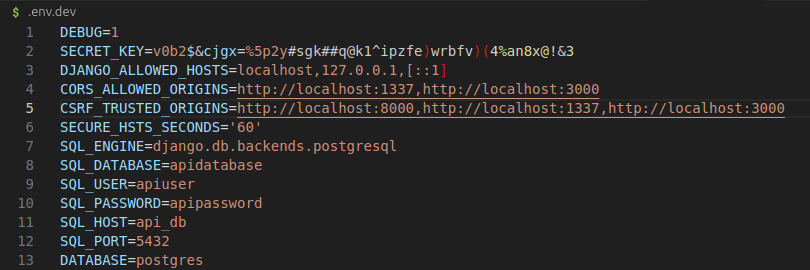
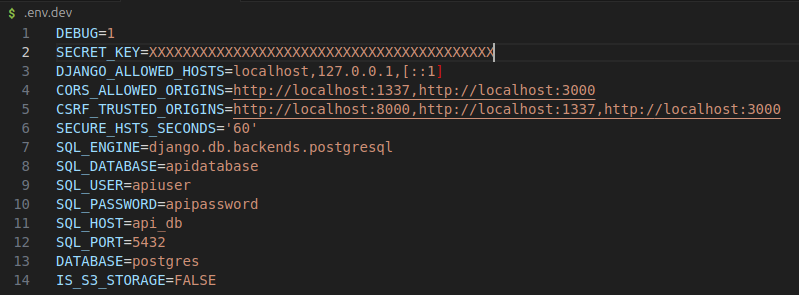
integrated application with AWS database, and AWS S3 in production build

Changed region(s): [[0.0, 0.0889, 0.9912, 1.0], [0.0, 0.0296, 0.0901, 0.0593]]

diff --git a/frontend/src/components/ui/NavigationBar.js b/frontend/src/components/ui/NavigationBar.js
@@ -52,7 +52,7 @@ export const NavigationBar = () => {
                             <Nav.Link href="/user/quests">Quests</Nav.Link>
                             : null}
                         {isAuth ?
-                            <Nav.Link href="/user/marketplace">Marketplace</Nav.Link>
+                            <Nav.Link href="/marketplace">Marketplace</Nav.Link>
                             : null}
                         {isAuth ?
                             <Nav.Link href="/logout">Logout</Nav.Link> :

diff --git a/frontend/src/components/web/HomePage.js b/frontend/src/components/web/HomePage.js
@@ -74,8 +74,11 @@ export const HomePage = () => {
             }
         }
     }, [users]);
-    
 
+    if (users.length == 0) { // return this while loading
+        return <div>Loading...</div>;
+    }
+    
     return (
         <Container className="justify-content-md-center">
             <div className="form-signin text-center">

diff --git a/api/gamification_tool/settings.py b/api/gamification_tool/settings.py
@@ -64,6 +64,7 @@ INSTALLED_APPS = [
     'quiz',
     'memory_game',
     'marketplace',
+    'dbbackup',
 ]
 # Plugins of processes that run in requests/responses
 MIDDLEWARE = [
@@ -153,19 +154,6 @@ USE_I18N = True
 USE_TZ = True
 
 
-# Static files (CSS, JavaScript, Images)
-# https://docs.djangoproject.com/en/5.1/howto/static-files/
-
-STATIC_URL = '/static/'
-STATIC_ROOT = BASE_DIR / "staticfiles"
-
-STATICFILES_DIRS = [
-    BASE_DIR,
-]
-
-MEDIA_URL = "/media/"
-MEDIA_ROOT = BASE_DIR / "mediafiles"
-
 # Default primary key field type
 # https://docs.djangoproject.com/en/5.1/ref/settings/#default-auto-field
 
@@ -184,3 +172,54 @@ REST_FRAMEWORK = {
 
 # Custom API Key header: Gamification-Api-Key: <key>
 API_KEY_CUSTOM_HEADER = "HTTP_GAMIFICATION_API_KEY"
+
+# Dbbackup config
+DBBACKUP_STORAGE = 'storages.backends.s3boto3.S3Boto3Storage'
+DBBACKUP_STORAGE_OPTIONS = {
+    'access_key': os.environ.get("S3_ACCESS_KEY"),
+    'secret_key': os.environ.get("S3_SECRET_KEY"),
+    'bucket_name': os.environ.get("S3_BUCKET_NAME"),
+    'region_name': os.environ.get("AWS_REGION"),
+    'default_acl': 'private',
+}
+
+
+# Static files (CSS, JavaScript, Images)
+# https://docs.djangoproject.com/en/5.1/howto/static-files/
+
+# For Prodcution: Static in AWS S3 if true, else static served in STATIC_ROOT
+USING_S3 = os.environ.get("IS_S3_STORAGE")
+
+if USING_S3:
+    AWS_ACCESS_KEY_ID = os.environ.get("S3_ACCESS_KEY")
+    AWS_SECRET_ACCESS_KEY = os.environ.get("S3_SECRET_KEY")
+    AWS_S3_REGION_NAME = os.environ.get("AWS_REGION")
+    AWS_STORAGE_BUCKET_NAME = os.environ.get("S3_BUCKET_NAME")
+    AWS_S3_FILE_OVERWRITE = False
+    AWS_DEFAULT_ACL = None
+    AWS_QUERYSTRING_AUTH = False
+    AWS_S3_CUSTOM_DOMAIN = f"{AWS_STORAGE_BUCKET_NAME}.s3.amazonaws.com"
+
+    STATICFILES_LOCATION = "static"
+    STATIC_URL = f"https://{AWS_S3_CUSTOM_DOMAIN}/{STATICFILES_LOCATION}/"
+
+    MEDIAFILES_LOCATION = "media"
+    MEDIA_URL = f"https://{AWS_S3_CUSTOM_DOMAIN}/{MEDIAFILES_LOCATION}/"
+
+    STORAGES = {
+        "default": {"BACKEND": "gamification_tool.custom_storage.MediaStorage"},
+        "staticfiles": {"BACKEND": "gamification_tool.custom_storage.StaticStorage"},
+    }
+    AWS_S3_OBJECT_PARAMETERS = {
+        "CacheControl": "max-age=2592000",
+    }
+else:
+    STATIC_URL = '/static/'
+    STATIC_ROOT = BASE_DIR / "staticfiles"
+
+    MEDIA_URL = "/media/"
+    MEDIA_ROOT = BASE_DIR / "mediafiles"
+
+STATICFILES_DIRS = [
+    os.path.join(BASE_DIR, 'static')
+]

diff --git a/api/gamification_tool/custom_storage.py b/api/gamification_tool/custom_storage.py
@@ -1,0 +1,13 @@
+from django.conf import settings
+from storages.backends.s3boto3 import S3Boto3Storage
+
+
+class StaticStorage(S3Boto3Storage):
+    location = settings.STATICFILES_LOCATION
+    default_acl = 'public-read'
+    querystring_auth = False
+
+
+class MediaStorage(S3Boto3Storage):
+    location = settings.MEDIAFILES_LOCATION
+    file_overwrite = False

diff --git a/README.md b/README.md
@@ -55,6 +55,10 @@ Views simulating minimal versions of main application features may be necessary 
   - [Production setup](#production-setup)
     - [Dev and Prod settings and environment variables](#dev-and-prod-settings-and-environment-variables)
     - [Nginx for reverse proxy and serving static content](#nginx-for-reverse-proxy-and-serving-static-content)
+    - [Hosting Providers](#hosting-providers)
+      - [Digital Ocean droplet hosting](#digital-ocean-droplet-hosting)
+      - [AWS RDS PostrgreSQL database](#aws-rds-postrgresql-database)
+      - [S3 Static and Media hosting](#s3-static-and-media-hosting)
     - [Running the production build](#running-the-production-build)
     - [What's different in production](#whats-different-in-production)
     - [To do remaining for production](#to-do-remaining-for-production)
@@ -127,7 +131,7 @@ The .env files excluded from git in the project structure:
 #### API .env files
 __Important: If updating from an earlier state of the project repo, the .env files are managed slightly differently in that where there was just a single .env for the backend, there are now two. One for dev and one for prod environments__  
 
-We need to make our own .env files.  
+As mentioned in the previous sections, we need to make our own .env files as they aren't shared in version control for dev builds.
 
 The pip package python-dotenv should already be installed from the `requirements.txt` earlier. If not, install it.
 
@@ -136,6 +140,8 @@ Here's an example for the Django environment variables in the backend.
 
 The Django Secret key is added to .env instead of having it exposed in the project settings.  
 Check the commented SECRET_KEY variable in settings.py to get the values, or generate another for your own dev machine.  
+
+`IS_S3_STORAGE` is a check for whether static and media will be collected in an AWS Bucket, or in the regular `STATIC_ROOT`. It should be false for dev builds, and can be false in the prod build in the case we don't want to use S3.
 
 The dev database user credentials environment variables can be found in `docker-compose.yml` in the project root so just copy them over to your `.env.dev`.  
 ![alt text](readme-imgs/env-2.png)
@@ -283,7 +289,7 @@ We now have two docker-compose.yml files:
 The dev setup of the environment variables was detailed in the earlier section *API.env files*, but we will include it here also.  
 
 Settings in the Django project which require differences between environments are stored in .env files in the project root and are imported into the docker-compose.yml's and Django. The files are:  
-- .env.dev - for develop environment  
+- .env.dev - for develop environment (the same one)  
 ![alt text](readme-imgs/env-dev-1.png)  
 
 - .env.prod  
@@ -315,6 +321,20 @@ At this point, Nginx is providing a reverse proxy service to the API, where requ
 
 The static from the Django project are served in the locations specified by the config file which corresponds to volumes created in `docker-compose.prod.yml`.
 
+### Hosting Providers
+We won't provide any detailed information about the providers here, but an overview of what services the project uses for hosting and backing up data.
+#### Digital Ocean droplet hosting
+This application is run using Docker orchestration to build the API, and a reverse proxy using nginx to serve it in a single Digital Ocean droplet. The containers are built and spun up from the `docker-compose.prod.yml` in this repo, and `Dockerfile.prod` for the frontend React project, and another separate `Dockerfile` for the Location service.
+
+#### AWS RDS PostrgreSQL database
+The production build is connected to a postgreSQL instance in the cloud to offload database management, and for automated backups. Performance can be slower, particularly when retrieving a lengthy list of values than a volumed instance.
+
+#### S3 Static and Media hosting
+The application is also connected to an S3 instance for hosting the static and media files. The django manage command `collectstatic` detailed below updates the static content direct to the bucket. User media is saved to the bucket when that content is posted.   
+![alt text](readme-imgs/s3-1.png)  
+
+There is an option to return to the Docker volume-served content by altering the `.env.prod` file environment variable `IS_S3_STORAGE` to `FALSE`.
+
 ### Running the production build
 The following tasks need to be run whenever the production container is being built:  
 1. Building and running in a detached instance:  
@@ -329,7 +349,9 @@ The following tasks need to be run whenever the production container is being bu
 4. Creating the superuser as before:  
 `$ docker compose -f docker-compose.prod.yml exec api python manage.py createsuperuser`  
 
-5. Create dummy users:  
+Steps 5-8 are production build commands within the scope of the project so there is some populated data. Note: the quiz feature needs to be populated with questions otherwise it won't run:  
+
+5. Create dummy users (This is part of the production build for the scope of this project):  
 `$ docker compose -f docker-compose.prod.yml exec api python manage.py create_users`
 
 6. Add Points logs if necessary:  
